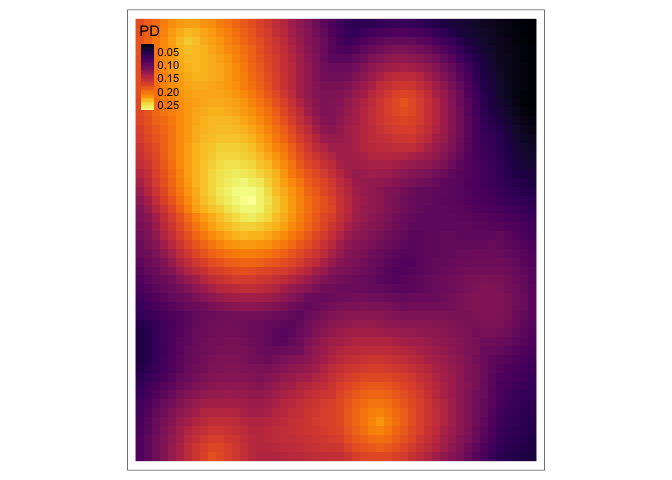
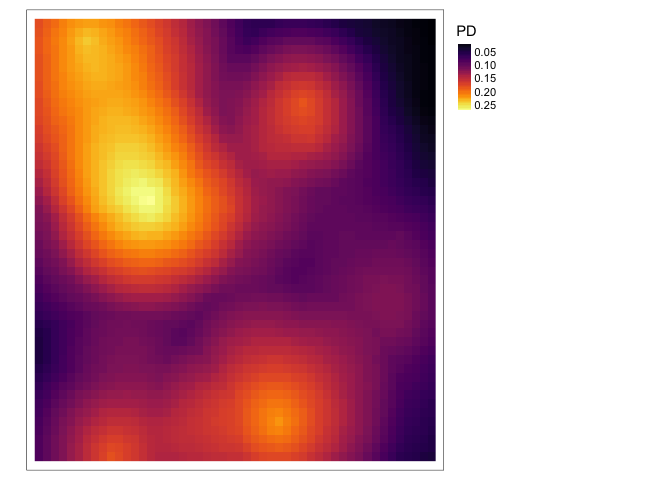
separate dissim and add_dissim

diff --git a/README.md b/README.md
@@ -10,19 +10,20 @@
 field of spatial phylogenetics focuses on accounting for evolutionary
 relationships among taxa when describing biodiversity patterns, an
 approach that has a number of advantages over species-based accounting.
-This library currently includes functions for computing:
+This library includes functions for computing:
 
 - diversity measures like phylogenetic diversity
+- statistical hypothesis testing using randomization-based null models
 - turnover measures like phylogenetic betaendemism
 - phylogenetic regionalization
 - phylogenetic conservation prioritization
 
-One feature that differentiates `phylospatial` from some similar
-packages is that in addition to working with binary presence/absence
-data, it’s also designed to work with continuous quantities such as
-occurrence probabilities or abundances. These quantities are treated as
-weights throughout all the analyses in the package, avoiding the need to
-discard information by thresholding the data.
+One feature that differentiates `phylospatial` from similar packages is
+that in addition to working with binary presence/absence data, all
+functions also work with continuous quantities such as occurrence
+probabilities or abundances. These quantities are treated as weights
+throughout all the analyses in the package, avoiding the need to discard
+information by thresholding the data.
 
 ## Installation
 
@@ -74,7 +75,9 @@ metrics and make a plot of PD:
 div <- ps_diversity(ps)
 names(div)
 #>  [1] "TR"  "CR"  "PD"  "TE"  "CE"  "PE"  "Em"  "RPD" "PEm" "RPE"
-tm_shape(div$PD) + tm_raster(palette = "inferno", style = "cont")
+tm_shape(div$PD) + 
+      tm_raster(palette = "inferno", style = "cont") +
+      tm_layout(legend.outside = T)
 ```
 
 <img src="man/figures/README-alpha-1.png" width="50%" />
@@ -92,7 +95,9 @@ with alpha = 0.05, these would be cells with values greater than 0.95).
 ``` r
 rand <- ps_rand(ps, n_rand = 100)
 #>   |                                                                              |                                                                      |   0%  |                                                                              |=                                                                     |   1%  |                                                                              |=                                                                     |   2%  |                                                                              |==                                                                    |   3%  |                                                                              |===                                                                   |   4%  |                                                                              |====                                                                  |   5%  |                                                                              |====                                                                  |   6%  |                                                                              |=====                                                                 |   7%  |                                                                              |======                                                                |   8%  |                                                                              |======                                                                |   9%  |                                                                              |=======                                                               |  10%  |                                                                              |========                                                              |  11%  |                                                                              |========                                                              |  12%  |                                                                              |=========                                                             |  13%  |                                                                              |==========                                                            |  14%  |                                                                              |==========                                                            |  15%  |                                                                              |===========                                                           |  16%  |                                                                              |============                                                          |  17%  |                                                                              |=============                                                         |  18%  |                                                                              |=============                                                         |  19%  |                                                                              |==============                                                        |  20%  |                                                                              |===============                                                       |  21%  |                                                                              |===============                                                       |  22%  |                                                                              |================                                                      |  23%  |                                                                              |=================                                                     |  24%  |                                                                              |==================                                                    |  25%  |                                                                              |==================                                                    |  26%  |                                                                              |===================                                                   |  27%  |                                                                              |====================                                                  |  28%  |                                                                              |====================                                                  |  29%  |                                                                              |=====================                                                 |  30%  |                                                                              |======================                                                |  31%  |                                                                              |======================                                                |  32%  |                                                                              |=======================                                               |  33%  |                                                                              |========================                                              |  34%  |                                                                              |========================                                              |  35%  |                                                                              |=========================                                             |  36%  |                                                                              |==========================                                            |  37%  |                                                                              |===========================                                           |  38%  |                                                                              |===========================                                           |  39%  |                                                                              |============================                                          |  40%  |                                                                              |=============================                                         |  41%  |                                                                              |=============================                                         |  42%  |                                                                              |==============================                                        |  43%  |                                                                              |===============================                                       |  44%  |                                                                              |================================                                      |  45%  |                                                                              |================================                                      |  46%  |                                                                              |=================================                                     |  47%  |                                                                              |==================================                                    |  48%  |                                                                              |==================================                                    |  49%  |                                                                              |===================================                                   |  50%  |                                                                              |====================================                                  |  51%  |                                                                              |====================================                                  |  52%  |                                                                              |=====================================                                 |  53%  |                                                                              |======================================                                |  54%  |                                                                              |======================================                                |  55%  |                                                                              |=======================================                               |  56%  |                                                                              |========================================                              |  57%  |                                                                              |=========================================                             |  58%  |                                                                              |=========================================                             |  59%  |                                                                              |==========================================                            |  60%  |                                                                              |===========================================                           |  61%  |                                                                              |===========================================                           |  62%  |                                                                              |============================================                          |  63%  |                                                                              |=============================================                         |  64%  |                                                                              |==============================================                        |  65%  |                                                                              |==============================================                        |  66%  |                                                                              |===============================================                       |  67%  |                                                                              |================================================                      |  68%  |                                                                              |================================================                      |  69%  |                                                                              |=================================================                     |  70%  |                                                                              |==================================================                    |  71%  |                                                                              |==================================================                    |  72%  |                                                                              |===================================================                   |  73%  |                                                                              |====================================================                  |  74%  |                                                                              |====================================================                  |  75%  |                                                                              |=====================================================                 |  76%  |                                                                              |======================================================                |  77%  |                                                                              |=======================================================               |  78%  |                                                                              |=======================================================               |  79%  |                                                                              |========================================================              |  80%  |                                                                              |=========================================================             |  81%  |                                                                              |=========================================================             |  82%  |                                                                              |==========================================================            |  83%  |                                                                              |===========================================================           |  84%  |                                                                              |============================================================          |  85%  |                                                                              |============================================================          |  86%  |                                                                              |=============================================================         |  87%  |                                                                              |==============================================================        |  88%  |                                                                              |==============================================================        |  89%  |                                                                              |===============================================================       |  90%  |                                                                              |================================================================      |  91%  |                                                                              |================================================================      |  92%  |                                                                              |=================================================================     |  93%  |                                                                              |==================================================================    |  94%  |                                                                              |==================================================================    |  95%  |                                                                              |===================================================================   |  96%  |                                                                              |====================================================================  |  97%  |                                                                              |===================================================================== |  98%  |                                                                              |===================================================================== |  99%  |                                                                              |======================================================================| 100%
-tm_shape(rand$qPE) + tm_raster(palette = "inferno", style = "cont")
+tm_shape(rand$qPE) + 
+      tm_raster(palette = "inferno", style = "cont") +
+      tm_layout(legend.outside = T)
 ```
 
 <img src="man/figures/README-rand-1.png" width="50%" />
@@ -103,16 +108,22 @@ We can also look at patterns in the phylogenetic similarity among
 locations. The first step here is to compute the community phylogenetic
 distance between every pair of sites, using the `ps_dissim()` function
 to add a pairwise distance matrix as an additional component in our
-spatial phylogenetic dataset.
+spatial phylogenetic data set. This function includes a range of scaling
+options and alternative dissimilarity indices; let’s run an example
+using quantitative Sorensen’s index (`method = "bray"`), weighting taxa
+by inverse range size (`endemism = TRUE`), and normalizing community
+sums to emphasize relative compositional differences
+(`normalize = TRUE`):
 
 ``` r
-ps <- ps_dissim(ps, add = TRUE)
+ps <- ps_add_dissim(ps, method = "bray", endemism = TRUE, normalize = TRUE)
 ```
 
 Having done this, we can then assess spatial turnover patterns in a
 couple ways. We can qualitatively visualize compositional differences by
 converting the distance matrix to a set of colors representing how
-similar two sites are to each other, using the `ps_rgb()` function:
+similar two sites are to each other, using the `ps_rgb()` function.
+Various ordination methods are available; here we’ll use `"cmds"`:
 
 ``` r
 ps %>%
@@ -126,8 +137,8 @@ ps %>%
 
 We can also perform a more formal cluster analysis that splits the
 landscape into a set of evolutionary bioregions, using the
-`ps_regions()` function. Let’s ask for eight regions using the “kmeans”
-clustering method:
+`ps_regions()` function. Let’s ask for eight regions using the
+`"kmeans"` clustering method:
 
 ``` r
 ps %>%
